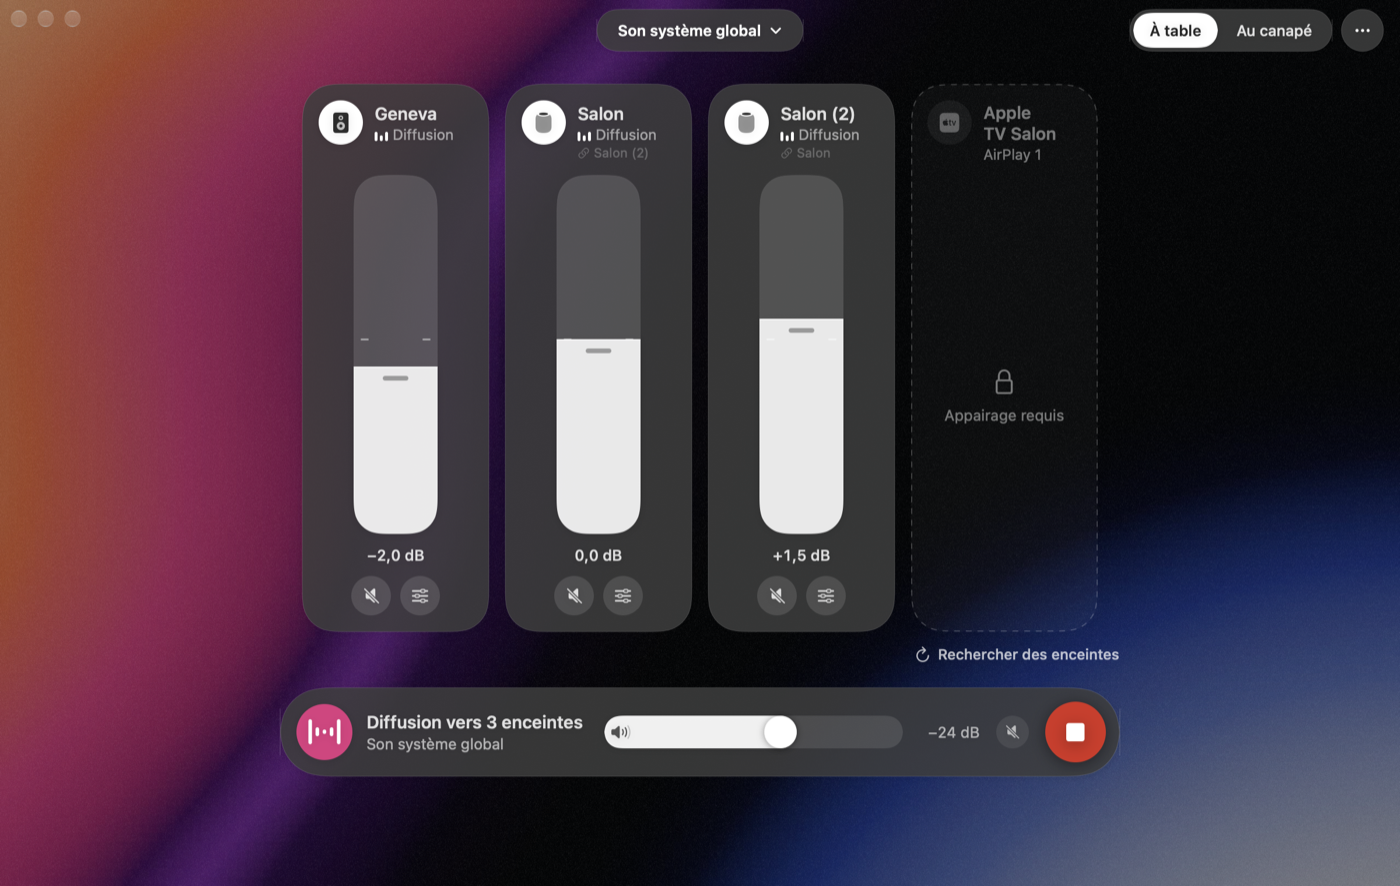
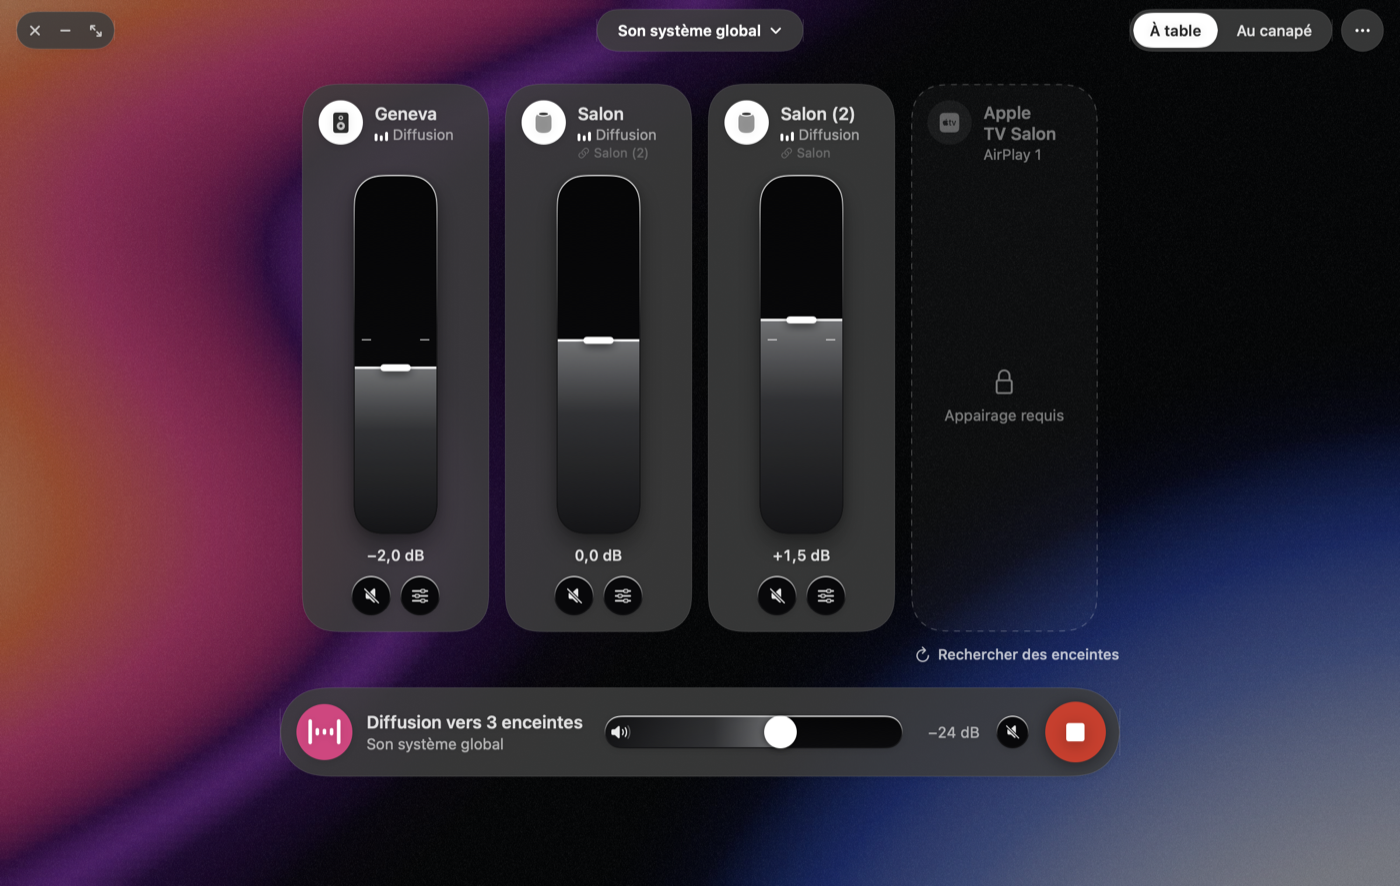
docs: record the second pass on the window
Baptiste judged the first pass in the real app. Record what he asked for
and what each change rests on: Darkshells faders, the reworked Halo view,
a background that visibly moves, the black glass centre he picked, glass
window controls and a window that shrinks to 440x400.

CLAUDE.md keeps the lessons that would otherwise be relearned: a motion
tuned without being seen ends up too faint, a padding around a view clips
its background, and performMiniaturize does nothing once the system
button is hidden.

diff --git a/CLAUDE.md b/CLAUDE.md
@@ -779,12 +779,17 @@ Relevés du 2026-11-03, implémentés et mesurés les 2026-11-09 et 10 : ADR `01
   enclenchés en blanc ; le rose va à la sphère, à la pastille d'état et au fond.
 - **Le fond se dessine à un seul endroit**, `Views/GrainientBackground.swift` (style *shadeshifter-05* de Grainient dans la
   palette de l'app : rampe en bandes obliques, nappe bleue en bas à droite, assombrie à 0,39 en diffusion et 0,085 au repos,
-  grain fixe de 256 px). **Animé par Core Animation, pas par SwiftUI** : 36 images-clés de 160×100 calculées une fois par
-  proportions de fenêtre, hors du MainActor, enchaînées par une `CAKeyframeAnimation` sur `contents` (cycle de 54 s). L'app ne
-  se réveille pas pendant le mouvement. Mesuré par `BACKGROUND_CPU_PROBE=30 swift test -c release --filter
-  GrainientBackgroundCPUProbe` : le CPU du process égale celui d'une fenêtre vide, là où l'ancien `Canvas` à 20 images/s en
-  prenait 109 % (fenêtre non composée, écran verrouillé : le serveur de fenêtres n'est pas mesuré). Une image fixe de la même
-  recette vit sous le calque : c'est elle que montrent le repos, « Réduire les animations » et les rendus hors écran.
+  grain fixe de 256 px). **Animé par Core Animation, pas par SwiftUI** : 120 images-clés de 160×100 calculées une fois par
+  proportions de fenêtre, hors du MainActor, enchaînées par une `CAKeyframeAnimation` sur `contents` (cycle de 36 s). L'app ne
+  se réveille pas pendant le mouvement. Une image fixe de la même recette vit sous le calque : c'est elle que montrent le
+  repos, « Réduire les animations » et les rendus hors écran.
+- **Un mouvement réglé sans le voir est trop faible** : le premier réglage (54 s, ondulation de 3,5 % de la largeur, ~10 pt/s)
+  tournait bien, mais Baptiste voyait « une texture fixe ». Réglage vu depuis : ondulation de 9 %, pente des bandes qui varie,
+  nappe qui dérive et respire, ~48 pt/s au plus, 14 pt au plus entre deux images-clés à 1200 pt de large. Sonde dans une vraie
+  fenêtre : `swift run BackgroundMotionProbe [court]`. **Elle affiche une petite fenêtre et prend le premier plan** : pas
+  quand Baptiste travaille. `swift test` ne peut pas devenir l'app active, le fond y reste en pause. Coût du process mesuré
+  par `BACKGROUND_CPU_PROBE=30 swift test -c release --filter GrainientBackgroundCPUProbe` sur l'ancien réglage : égal à
+  une fenêtre vide, contre 109 % pour le `Canvas` d'avant ; le serveur de fenêtres n'est pas mesuré.
 - **Pas de shader SwiftUI** : `swift build` copie un `.metal` sans le compiler, et le Metal Toolchain n'est pas installé
   (`xcrun metal` échoue). `MTLDevice.makeLibrary(source:)` compilerait du MSL à l'exécution, si un jour il en faut un.
 - **Aucune image de Grainient dans le dépôt** : sa licence (`grainient.supply/license-agreement`, 2024-08-20) permet l'usage
@@ -804,6 +809,22 @@ Relevés du 2026-11-03, implémentés et mesurés les 2026-11-09 et 10 : ADR `01
 - **`==` sur deux `CGPath` ne suffit pas à dire deux tracés identiques** : `BridgeGlyph.marks(.idle)`, assemblé par `addPath`,
   et le même tracé construit barre par barre diffèrent au dernier bit de quelques flottants (cause non établie). Comparer
   élément par élément, avec une tolérance (`HaloSphereTests.match`).
+- **Commandes de la Console en matière Darkshells** (`Views/Darkshell.swift`, variante 15 choisie par Baptiste) : piste presque
+  noire à liseré, niveau en voile gris sous un trait blanc. Le volume général garde une **prise ronde**. `PanelVolumeSlider` et
+  `PanelMuteButton` prennent un `look: ControlLook` (`.panel` par défaut) : le panneau et la vue Plan ne changent pas.
+- **Vue Halo** : les ondes (`HaloWaveField`) sont un voile flou calculé par pixel dans une image de 160 px, plafonné à 28 %
+  d'alpha, à 20 images/s. Une marge posée **autour** d'une vue rogne son fond : celle du haut est passée à `HaloView`
+  (`topInset`), sinon les ondes s'arrêtaient net à 48 pt du bord et dessinaient une fausse barre. Le silence général est un
+  bouton rond au bout de la rangée d'enceintes (`HaloMuteButton`), jamais masquable. Plus de mention « N enceintes masquées »
+  dans les vues Halo et Console ; elle reste au pied du panneau de la vue Plan.
+- **Boutons de fenêtre** (`Views/WindowControls.swift`) : une capsule de verre fermer / réduire / agrandir remplace les trois
+  boutons système de la fenêtre principale, masqués par `SystemWindowButtons.hide` à chaque rattachement, retour au premier
+  plan, entrée et sortie de plein écran, retour du Dock. `performClose` aboutit avec le bouton système masqué ;
+  **`performMiniaturize` non** (il simule un clic sur le bouton) : `miniaturize`. Agrandir = plein écran, ⌥ = `zoom`.
+- **Fenêtre réductible jusqu'à 440×400** (`Views/WindowSizing.swift`, paliers en fonctions pures) : pastilles du Halo sur une
+  rangée défilante puis compactes, tuiles de la Console défilantes, lieu d'écoute replié en bouton, panneau des enceintes du
+  Plan replié en barre et rouvert en surimpression. Rendus à toutes les tailles :
+  `WINDOW_PNG_DIR=<dossier> swift test --filter SmallWindowExport`.
 - **Masquer est visuel** (`HiddenElements`, `BridgeState+Visibility`) : une enceinte masquée et cochée continue de jouer, et
   disparaît des trois vues et du panneau. Le geste vaut pour toute la paire stéréo. Trois blocs masquables (`WindowBlock`) :
   ondes du Halo, volume général, lieu d'écoute de la Console ; jamais l'état, les avertissements, la source, Diffuser ni le

diff --git a/PROGRESS.md b/PROGRESS.md
@@ -1319,3 +1319,25 @@ ouverture des Réglages) ; mesurer le CPU fenêtre visible (Moniteur d'activité
 de curseurs ; deux défauts mineurs vus aux rendus (l'œil frôle un nom long dans la tuile Console, la légende « stéréo
 avec… » se tronque au survol dans la carte du Plan).
 
+### Après la clôture : seconde passe sur la fenêtre, d'après ce que Baptiste a vu dans l'app (2026-11-10 et 11)
+
+Baptiste a installé la première passe et l'a jugée dans l'app. Ses retours, et ce qui en est fait. **Installé le 2026-11-11.**
+
+| Retour de Baptiste | Ce qui est fait | Preuve |
+|---|---|---|
+| Curseurs de la Console : la variante 15 (Darkshells), avec un volume général à prise ronde | `Darkshell.swift` ; curseurs, boutons ronds et barre de lecture dans cette matière | test (8, 5 mutations), rendu. **Pas encore vu dans l'app** |
+| « Enlève la mention 2 enceintes masquées » | Retirée des vues Halo et Console ; elle reste au pied du panneau de la vue Plan | rendu |
+| Le volume général du Halo : un bouton rond de silence à droite de la dernière enceinte | `HaloMuteButton`, 40 pt, coupe sans déconnecter ; la pastille « Volume général » disparaît | test, rendu |
+| « Une espèce de nav bar en haut » | Cause : une marge haute posée autour de la vue rognait les ondes à 48 pt du bord. Les ondes couvrent toute la fenêtre | rendu (haut recadré) |
+| Ondes « trop nettes et trop présentes » | Voile flou dans la palette du fond, alpha plafonné à 28 % | test (4 mutations), rendu |
+| « Fais que le fond bouge, que ce ne soit pas une texture fixe » | L'animation tournait, le mouvement était trop faible. Trois fois plus ample, cycle de 36 s, 120 images-clés | **mesuré** dans une vraie fenêtre au premier plan : 3,2 fois plus de pixels changés par seconde. **Pas encore jugé par Baptiste** |
+| Le centre : « j'aime pas le motif » ; quatre maquettes proposées, **la 17 validée** | Verre noir, triangle lecture au repos ; en diffusion, logo du pont dont les barres ondulent et lueur rose floue. `NovaGlass` supprimé | test (12, 5 mutations ; contraste 9:1 au pire), rendu. Mouvement **non vu** |
+| Boutons fermer, réduire, agrandir « dans la DA des boutons de l'app » | Capsule de verre en haut à gauche, boutons système masqués | test (13, 8 mutations), rendu. Déplacement de la fenêtre, plein écran, retour d'un bouton système : **non essayés** |
+| « Je peux pas réduire la fenêtre trop » | Minimum 440×400 au lieu de 960×620, trois vues adaptées par paliers | test, rendu des trois vues à 7 tailles. L'agent a été arrêté avant son rapport : vérifié par la session (suite, `xcodebuild`, rendus regardés). Redimensionnement en direct **non essayé** |
+
+**Tests** : 1 172 tests verts, `xcodebuild` Debug réussi, Mac au calme.
+
+**Reste ouvert** : juger dans l'app le mouvement (fond, ondes, logo), la capsule de fenêtre et le redimensionnement ; à
+440×400, les étiquettes du plan se chevauchent ; le coût CPU fenêtre visible n'est toujours pas mesuré (fond à 24 images/s
+demandées au serveur de rendu, ondes et centre à 20 images/s).
+

diff --git a/README.md b/README.md
@@ -120,10 +120,12 @@ Dans la barre de menus :
 
 « Ouvrir la fenêtre… » ouvre la fenêtre, sombre, sans barre d'outils : tout flotte en verre sur un fond en dégradé
 granuleux qui ondule lentement pendant une diffusion, et s'éteint au repos. La source est une pastille en haut au
-centre, les options un bouton « … » en haut à droite. Trois vues, au choix dans les options ou les Réglages :
+centre, les options un bouton « … » en haut à droite, et fermer, réduire, agrandir une capsule en haut à gauche. La
+fenêtre se réduit jusqu'à 440×400. Trois vues, au choix dans les options ou les Réglages :
 
-- **Halo** (par défaut) : une sphère de verre au centre, qui est le bouton Diffuser/Arrêter (⌘↩) et s'anime quand le
-  son passe ; le volume général en anneau autour ; les enceintes en pastilles dessous ;
+- **Halo** (par défaut) : un disque de verre noir au centre, qui est le bouton Diffuser/Arrêter (⌘↩) : un triangle
+  lecture au repos, le logo qui ondule quand le son passe ; le volume général en anneau autour ; les enceintes en
+  pastilles dessous, suivies d'un bouton de silence ;
 - **Console** : une tuile et un curseur vertical par enceinte, et une barre de lecture (état, volume général,
   silence, Diffuser/Arrêter) ;
 - **Plan** : le plan de la pièce à l'échelle en plein cadre, le panneau des enceintes flottant à gauche, l'inspecteur
@@ -134,7 +136,7 @@ depuis les options.
 
 **Masquer** : un clic droit sur une enceinte, ou l'œil barré qui apparaît au survol, la retire des trois vues et du
 panneau de la barre de menus (une Apple TV qui ne joue pas, par exemple). C'est seulement visuel : cochée, elle
-continue de jouer. Une paire stéréo se masque d'un bloc. Une ligne « 1 enceinte masquée » le rappelle.
+continue de jouer. Une paire stéréo se masque d'un bloc.
 
 **Réglages** (⌘,) : le choix de la vue, un interrupteur par enceinte connue pour la réafficher, et trois éléments
 masquables (les ondes de la vue Halo, le volume général, le lieu d'écoute de la Console).
